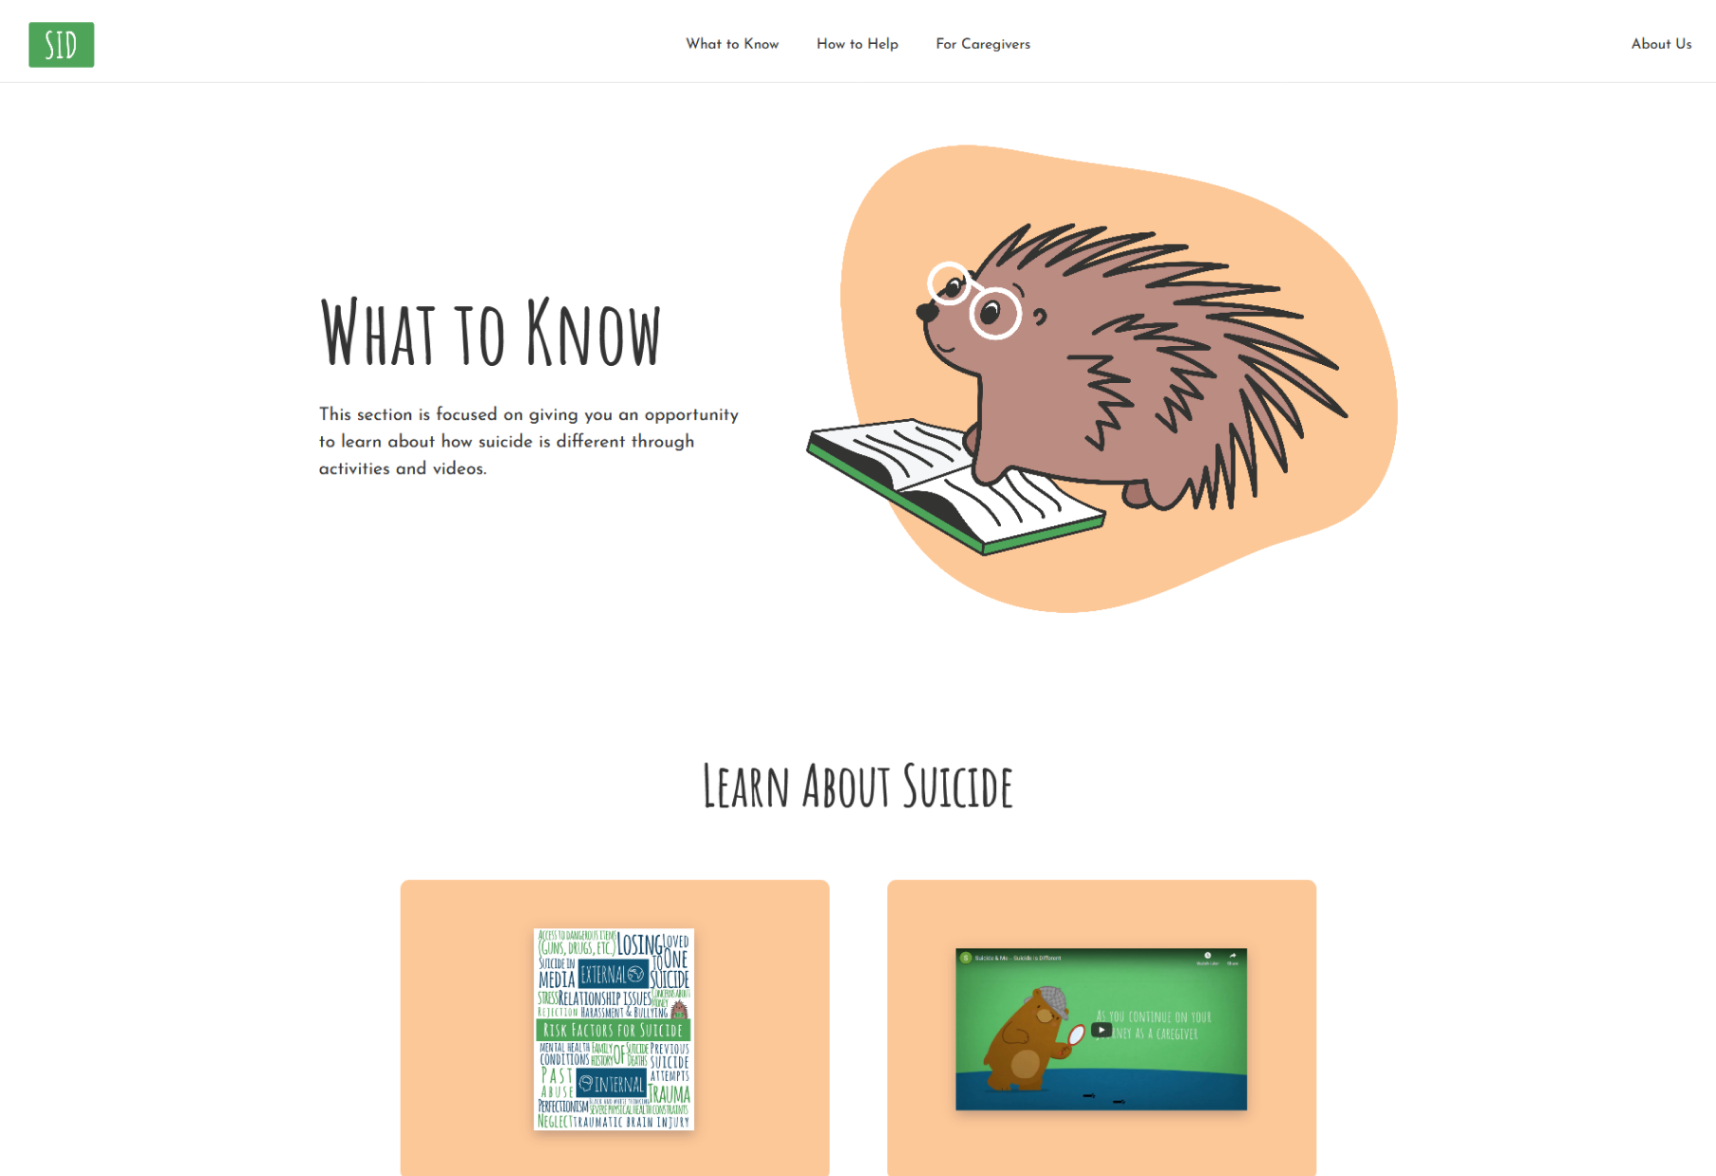
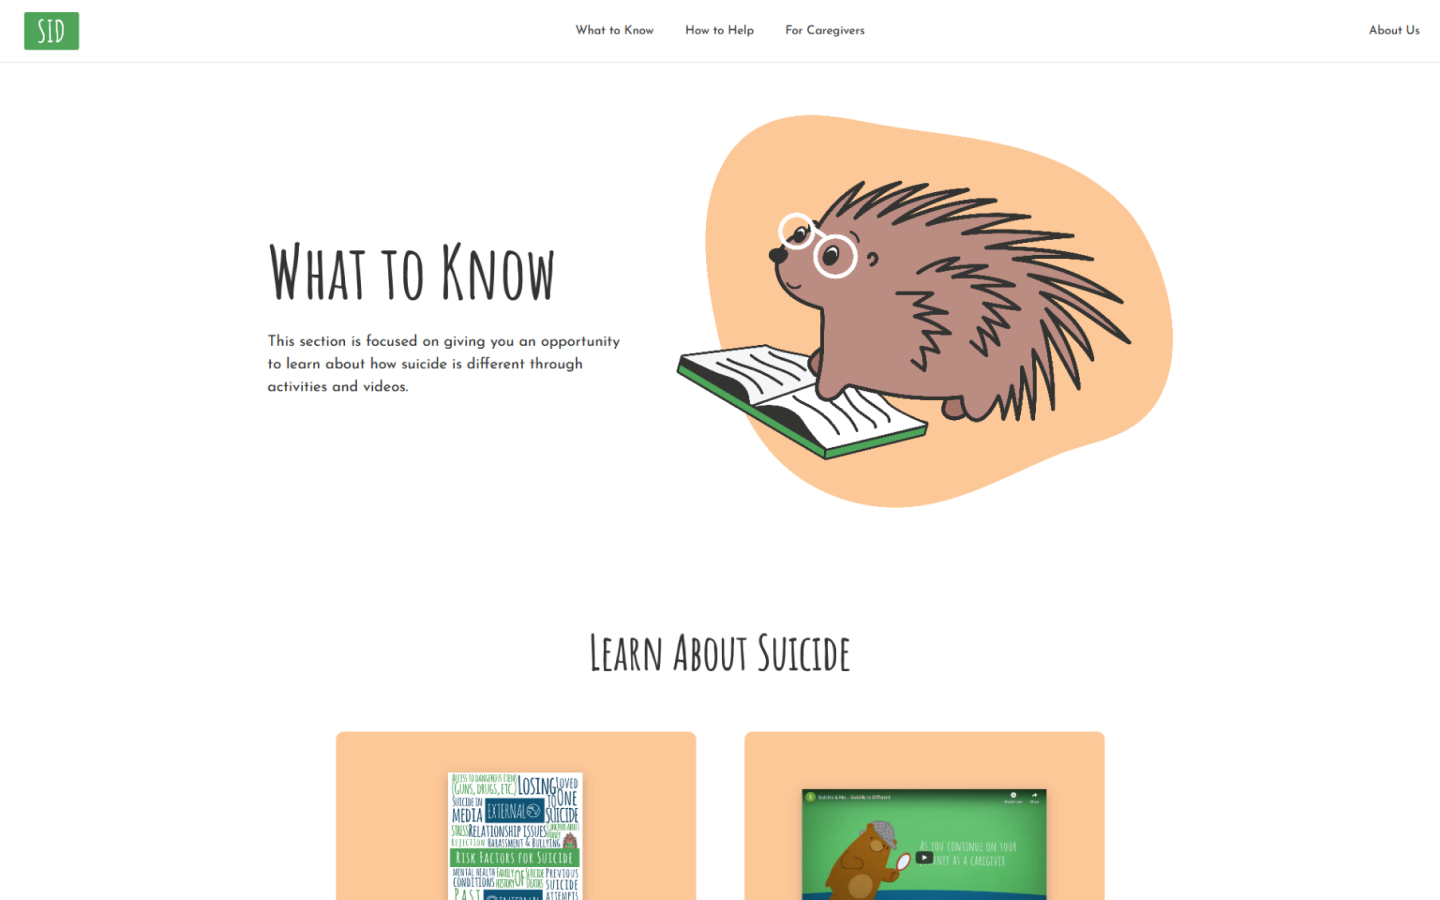
Optimized images for home, SID, and IDES
I also checked for spelling errors and reformatted pages to make them consistent.

diff --git a/work/sid.html b/work/sid.html
@@ -51,8 +51,12 @@
 							<h1>Suicide is Different</h1>
 							<p id="intro-p">Matching the crisis intervention experience for third party supporters.</p>
 						</div>
-						<div class="content-img" id="sid-bg">
-							<img src="../images/assets/SID-Thumb.png" alt="High-fidelity wireframe for Suicide is Different">
+						<!-- 01 - Hi-fi wireframe for the landing page. -->
+						<div class="content-img-container">
+							<div class="content-img" id="sid-bg">
+								<img src="../images/sid/sid-home.png" alt="Hi-fi wireframe for the Suicide is Different landing page">
+							</div>
+							<figcaption>01 - Hi-fi wireframe for the landing page.</figcaption>
 						</div>
 					</div>
 				</section>
@@ -64,7 +68,7 @@
 						<div class="content-child">
 							<div class="content" id="center-align">
 								<h4>Overview</h4>
-								<h2>Redesigning the crisis intervention experience.</h2>
+								<h2>Redesigning the crisis intervention experience for caregivers.</h2>
 							</div>
 						</div>
 
@@ -77,7 +81,7 @@
 							<!-- Content Container -->
 							<div class="three-col-content" id="center-align">
 								<h3>The Client</h3>
-								<p>Suicide is Different (SID) offers crisis intervention education.</p>
+								<p>Suicide is Different (SID) offers crisis intervention education for people who want to help.</p>
 							</div>
 						</div>
 						
@@ -103,7 +107,7 @@
 							<!-- Content Container -->
 							<div class="three-col-content" id="center-align">
 								<h3>Role&nbsp;&amp;&nbsp;Team</h3>
-								<p>Led most design tasks. Collaborated with a Researcher to draft measures, interview, and conduct analysis.</p>
+								<p>Led most design tasks, but collaborated with a Researcher.</p>
 							</div>
 						</div>
 						
@@ -158,23 +162,33 @@
 					<div class="content-child">
 						<div class="content">
 							<h4>Summary</h4>
-							<h2>SID provides crisis intervention edducation for people who want to support others.</h2>
-							<p>SID's value proposition is that they focus on the touch points that occur after the initial crisis. Oftentimes, someone experiencing a crisis may go through a similar predicament  in the future. SID provides the tools and resources for those who want to provide long-time support.</p>
-							<p>The challenge for this project was thinking about how can we map someone's experience of navigating this crisis live, and what tools or resources will be most relevant for them. The outcome of this project was a complete IA overhaul and accentuating the existing  visual brand.</p>	<p><strong>A more detailed case study coming soon. In the meantime feel free the check out the site, it's live: <a href="http://suicideisdifferent.org">suicideisdifferent.org</a>.</strong></p>
+							<h2>SID provides crisis intervention education for people who want to support others.</h2>
+							<p>SID's value proposition is that they focus on the touch points that occur after the initial crisis. Oftentimes, someone experiencing a crisis may go through a similar predicament in the future. SID provides the tools and resources for those who want to provide long-time support.</p>
+							<p>The challenge for this project was thinking about how can we map someone's experience of navigating this crisis live, and what tools or resources will be most relevant for them. The outcome of this project was a complete IA overhaul and accentuating the existing visual brand.</p>	
+							<p><strong>A more detailed case study coming soon. In the meantime feel free the check out the site, it's live:&nbsp;<a href="http://suicideisdifferent.org">suicideisdifferent.org</a>.</strong></p>
 						</div>
 					</div>
 					<div id="bg-div">
-						<!-- Wireframe 1 -->
-						<div class="content-img" id="sid-bg">
-							<img src="../images/sid/SID-what-1.png" alt="High-fidelity wireframe for Suicide is Different">
+						<!-- 02 - Hi-fi wireframe for What to Know page (top). -->
+						<div class="content-img-container">
+							<div class="content-img" id="sid-bg">
+								<img src="../images/sid/sid-what-1.png" alt="Hi-fi wireframe for What to Know page (top)">
+							</div>
+							<figcaption>02 - Hi-fi wireframe for What to Know page (top).</figcaption>				
 						</div>
-						<!-- Wireframe 2 -->
-						<div class="content-img" id="sid-bg-2">
-							<img src="../images/sid/SID-what-2.png" alt="High-fidelity wireframe for Suicide is Different">
+						<!-- 03 - Hi-fi wireframe that shows resources and the SID disclaimer. -->
+						<div class="content-img-container">
+							<div class="content-img" id="sid-bg-2">
+								<img src="../images/sid/sid-what-2.png" alt="Hi-fi wireframe that shows resources and the SID disclaimer">
+							</div>
+							<figcaption>03 - Hi-fi wireframe that shows resources and the SID disclaimer.</figcaption>				
 						</div>
-						<!-- Wireframe 3 -->
-						<div class="content-img" id="sid-bg">
-							<img src="../images/sid/SID-care.png" alt="High-fidelity wireframe for Suicide is Different">
+						<!-- 04 - Hi-fi wireframe for the Caregivers page (middle). -->
+						<div class="content-img-container">
+							<div class="content-img" id="sid-bg">
+								<img src="../images/sid/sid-care-1.png" alt="Hi-fi wireframe for the Caregivers page (middle)">
+							</div>
+							<figcaption>04 - Hi-fi wireframe for the Caregivers page (middle).</figcaption>				
 						</div>				
 					</div>
 				</section>			

diff --git a/work/ides.html b/work/ides.html
@@ -51,8 +51,12 @@
 							<h1>Illinois Department of Employment Security</h1>
 							<p id="intro-p">A school project where we learned you can't redesign an entire site [well] in 10 weeks or less.</p>
 						</div>
-						<div class="content-img" id="ides-bg">
-							<img src="../images/assets/IDES-Thumb.png" alt="High-fidelity wireframe for Illinois Department of Employment Security ">
+						<!-- 01 - UI mock-up of the login/register page. -->
+						<div class="content-img-container">
+							<div class="content-img" id="ides-bg">
+							<img src="../images/ides/ides-mock-1.png" alt="UI mock-up of the login/register page">
+							</div>
+							<figcaption>01 - UI mock-up of the login/register page.</figcaption>
 						</div>
 					</div>
 				</section>
@@ -158,29 +162,38 @@
 					<div class="content-child">
 						<div class="content">
 							<h4>Summary</h4>
-							<h2>Due to the recent developments in COVID-19, the effects of Illinois’ stay-at-home orders have laid off or furloughed many workers since March 21, 2020.</h2>
-							<p>This has led to an increase in activity for the Illinois Department of Employment Security’s (IDES) website, where many of those workers have gone to submit an unemployment insurance (UI) claim, and certify their benefits. The increase in use has provided more exposure to the prevalent issues that exist within the website and its user experience.</p>
+							<h2>Improving the unemployment application process during COVID.</h2>
+							<p>Due to the recent developments in COVID-19, the effects of Illinois’ stay-at-home orders have laid off or furloughed many workers since March 21, 2020.This has led to an increase in activity for the Illinois Department of Employment Security’s (IDES) website, where many of those workers have gone to submit an unemployment insurance (UI) claim, and certify their benefits. The increase in use has provided more exposure to the prevalent issues that exist within the website and its user experience.</p>
 							<p>In this project, our team sought to rectify some of these issues by redesigning the IDES website for a mobile design. First, we conducted a competitive review of other states’ unemployment websites, TurboTax, and Amazon, to gain insight on how other sites have designed user input forms and information pages.</p>
 							<p>Afterwards, we conducted a heuristic evaluation to find opportunities for improvement in the current IDES site. Then we created a site map, and used it as a baseline to improve the information architecture through card sort and treejack tests. At the same time we facilitated a survey and live user interviews of people who were recently unemployed within the past three months, and completed a UI claims application online. </p>
 							<p>As a result of the tests, and the time constraints of completing a project within an academic quarter, we narrowed the scope of our project to redesigning the UI claims application only.</p>
 							<p><strong>A more detailed case study coming soon.</strong></p>
 						</div>
 					</div>
-					<!-- IDES Images -->
 					<div id="bg-div">
-						<!-- Wireframe 1 -->
-						<div class="content-img" id="ides-bg">
-							<img src="../images/ides/ides1.png" alt="Mid-fidelity wireframe for IDES">
-						</div>
-						<!-- Wireframe 2 -->
-						<div class="content-img" id="ides-bg-2">
-							<img src="../images/ides/ides2.png" alt="Mid-fidelity wireframe for IDES">
-						</div>
-						<!-- Wireframe 3 -->
-						<div class="content-img" id="ides-bg">
-							<img src="../images/ides/ides3.png" alt="Mid-fidelity wireframe for IDES">
-						</div>				
-					</div>				</section>			
+						<!-- 02 - Mid-fi wireframe for the Demographics section. -->
+						<div class="content-img-container">
+							<div class="content-img" id="ides-bg">
+								<img src="../images/ides/ides1.png" alt="Mid-fi wireframe for the Demographics section">
+							</div>
+							<figcaption>02 - Mid-fi wireframe for the Demographics section.</figcaption>
+						</div>					
+						<!-- 03 - Mid-fi wireframe for the Occupation section. -->
+						<div class="content-img-container">
+							<div class="content-img" id="ides-bg-2">
+								<img src="../images/ides/ides2.png" alt="Mid-fi wireframe for the Occupation section.">
+							</div>
+							<figcaption>03 - Mid-fi wireframe for the Occupation section.</figcaption>
+						</div>					
+						<!-- 04 - Mid-fi wireframe for the Registration section. -->
+						<div class="content-img-container">
+							<div class="content-img" id="ides-bg">
+								<img src="../images/ides/ides3.png" alt="Mid-fi wireframe for the Registration section.">
+							</div>
+							<figcaption>04 - Mid-fi wireframe for the Registration section.</figcaption>
+						</div>	
+					</div>
+				</section>			
 				<!-- END MAIN GRID WRAPPER -------------------->
 					<!-- Go Back -->
 					<div class="go-back">

diff --git a/index.html b/index.html
@@ -59,23 +59,23 @@
 				<section class="three-col-parent">
 					<div class="three-col-child" id="three-col-padding">
 						
-					<!-- Suicide is Different -->
-					<a href="work/sid.html" class="three-col-item">
-						<div class="three-col-image" id="sid-bg">
-							<img src="images/assets/SID-Thumb.png" alt="Case Study">
+					<!-- Strata Decision Technology -->
+					<a href="work/sdt-protected.html" class="three-col-item">
+						<div class="three-col-image" id="sdt-bg">
+							<img src="images/assets/sdt-thumb.png" alt="I can't show the actual mockup without the password so this is a high level concept of the mock up for Strata Decision Technology."><br>
 						</div>
 						<div class="three-col-content" id="center-align">
-							<h4>UX/UI</h4>
-							<h3>Suicide is Different</h3>
-							<p>Website redesign to match user’s thought process for providing suicide support.</p>
+							<h4>User Experience</h4>
+							<h3>Strata Decision Technology</h3>
+							<p>Designed a new feature in the SaaS platform that streamlined the annual budget planning process.</p>
 						</div>
-					</a>
-						
+					</a>						
+
 
 					<!-- Green Shirt Studio -->
 					<a href="work/gss.html" class="three-col-item">
 						<div class="three-col-image" id="gss-bg">
-							<img src="images/assets/GSS-Thumb.png" alt="Case Study">
+							<img src="images/assets/gss-thumb.png" alt="Green Shirt Study home page thumbnail">
 						</div>
 						<div class="three-col-content" id="center-align">
 							<h4>UX/UI</h4>
@@ -87,7 +87,7 @@
 					<!-- Crowd Capital -->
 					<a href="work/cc.html" class="three-col-item">
 						<div class="three-col-image" id="cc-bg">
-							<img src="images/assets/CC-Thumb.png" alt="Case Study">
+							<img src="images/assets/cc-thumb.png" alt="Crowd Capital home page thumbnail">
 						</div>
 						<div class="three-col-content" id="center-align">
 							<h4>UX/UI</h4>
@@ -95,28 +95,28 @@
 							<p>Website redesign to help define startup brand and narrative for future angel investors.</p>
 						</div>
 					</a>
-
+						
+					<!-- Suicide is Different -->
+					<a href="work/sid.html" class="three-col-item">
+						<div class="three-col-image" id="sid-bg">
+							<img src="images/assets/sid-thumb.png" alt="Suicide is Different home page thumbnail">
+						</div>
+						<div class="three-col-content" id="center-align">
+							<h4>UX/UI</h4>
+							<h3>Suicide is Different</h3>
+							<p>Website redesign to match user’s thought process for providing suicide support.</p>
+						</div>
+					</a>
+						
 					<!-- IDES -->
 					<a href="work/ides.html" class="three-col-item">
 						<div class="three-col-image" id="ides-bg">
-							<img src="images/assets/IDES-Thumb.png" alt="Case Study">
+							<img src="images/assets/ides-thumb.png" alt="Illinois Depart of Employment Security thumbnail">
 						</div>
 						<div class="three-col-content" id="center-align">
 							<h4>Research/UX</h4>
 							<h3>IDES (School Project)</h3>
 							<p>Using research to create a task flow for a less frustrating unemployment claims application.</p>
-						</div>
-					</a>
-						
-					<!-- Strata Decision Technology -->
-					<a href="work/sdt-protected.html" class="three-col-item">
-						<div class="three-col-image" id="sdt-bg">
-							<img src="images/assets/SDT-Thumb-Small.png" alt="Case Study"><br>
-						</div>
-						<div class="three-col-content" id="center-align">
-							<h4>User Experience</h4>
-							<h3>Strata Decision Technology</h3>
-							<p>Designed a new feature in the SaaS platform that streamlined the annual budget planning process.</p>
 						</div>
 					</a>
 						

diff --git a/work/gss.html b/work/gss.html
@@ -53,7 +53,7 @@
 						</div>
 						<div class="content-img-container">
 							<div class="content-img" id="gss-bg">
-								<img src="../images/assets/GSS-Thumb.png" alt="High-fidelity wireframe for the Green Shirt Studio landing page">
+								<img src="../images/gss/gss-home.png" alt="High-fidelity wireframe for the Green Shirt Studio landing page">
 							</div>
 							<figcaption>01 - High-fi wireframe of the landing page.</figcaption>
 						</div>

diff --git a/work/cc.html b/work/cc.html
@@ -52,7 +52,7 @@
 							<p id="intro-p">Operating at the intersection of real estate, investment platforms, and crowd funding.</p>
 						</div>
 						<div class="content-img" id="cc-bg">
-							<img src="../images/assets/CC-Thumb.png" alt="High-fidelity wireframe for Crowd Capital">
+							<img src="../images/cc/cc-home.png" alt="High-fidelity wireframe for Crowd Capital">
 						</div>
 					</div>
 				</section>

diff --git a/work/sdt.html b/work/sdt.html
@@ -55,7 +55,7 @@
 					<!-- Strata Mockup -->
 					<div class="content-img-container">
 						<div class="content-img" id="sdt-bg">
-							<img src="../images/sdt/SDT-final.png" alt="Mock-up for the annual budget planning process">
+							<img src="../images/sdt/sdt-final-mock.png" alt="Ui mock-up for the final concept">
 						</div>
 						<figcaption>01 - One option for a UI mockup.</figcaption>
 					</div>

diff --git a/css/primary.css b/css/primary.css
@@ -243,10 +243,6 @@ footer ul a {
 	background-color: #4EA459; 
 }
 
-#sid-bg-2 {
-	background-color: #0F5474; 
-}
-
 /* Green Shirt Studio - Bg Color */
 #gss-bg {
 	background-color: #3A8149; 
@@ -255,7 +251,8 @@ footer ul a {
 #gss-bg-2,
 #cc-bg-2,
 #ides-bg-2,
-#sdt-bg-2 {
+#sdt-bg-2,
+#sid-bg-2{
 	background-color: #EFEFEF; 
 }
 
